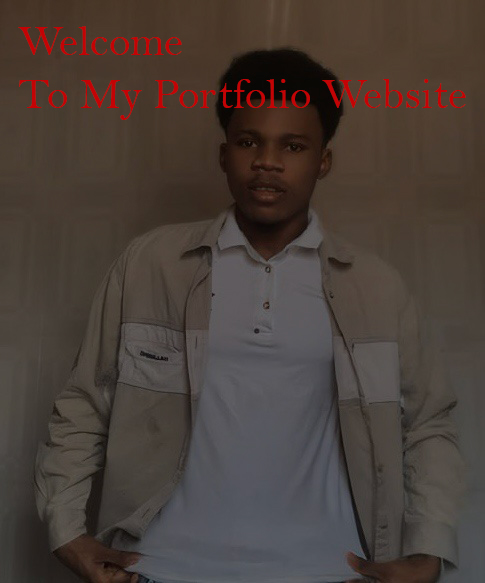
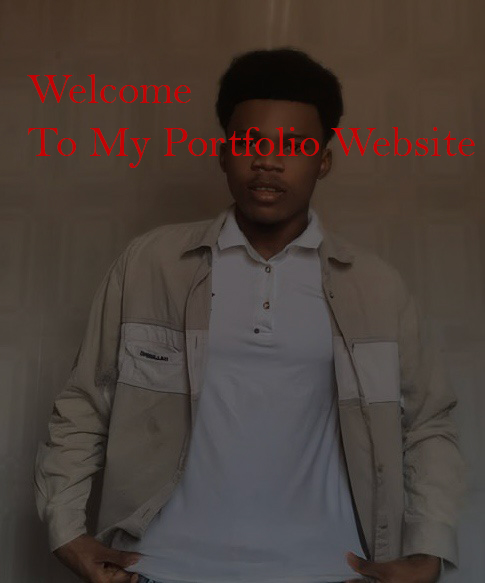
Add files via upload

diff --git a/style.css b/style.css
@@ -153,7 +153,7 @@ header .book_me:hover {
   background-repeat: no-repeat; /*prevents the background image from repeating*/
   background-image: url(me2.jpg);
   width: 100%;
-  margin-top: 70px;
+  margin-bottom: 80px;
 }
 
 .about_section{
